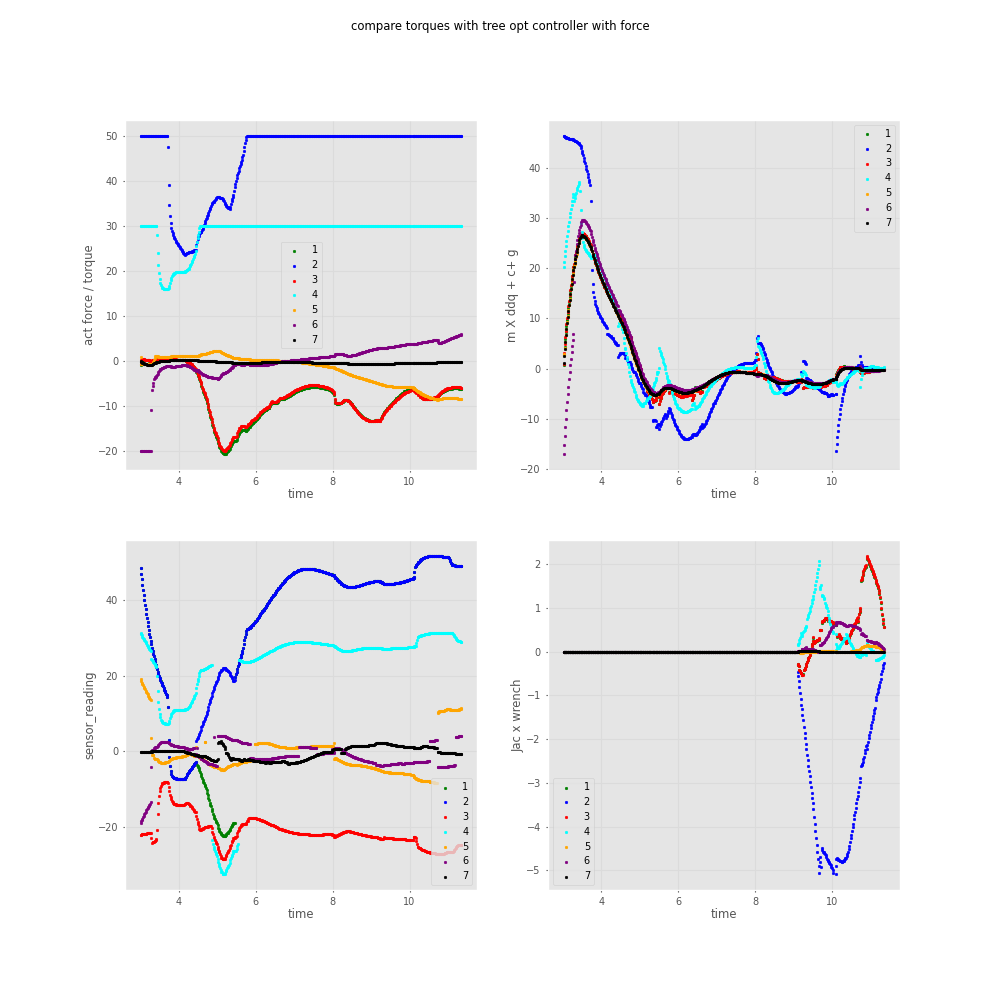
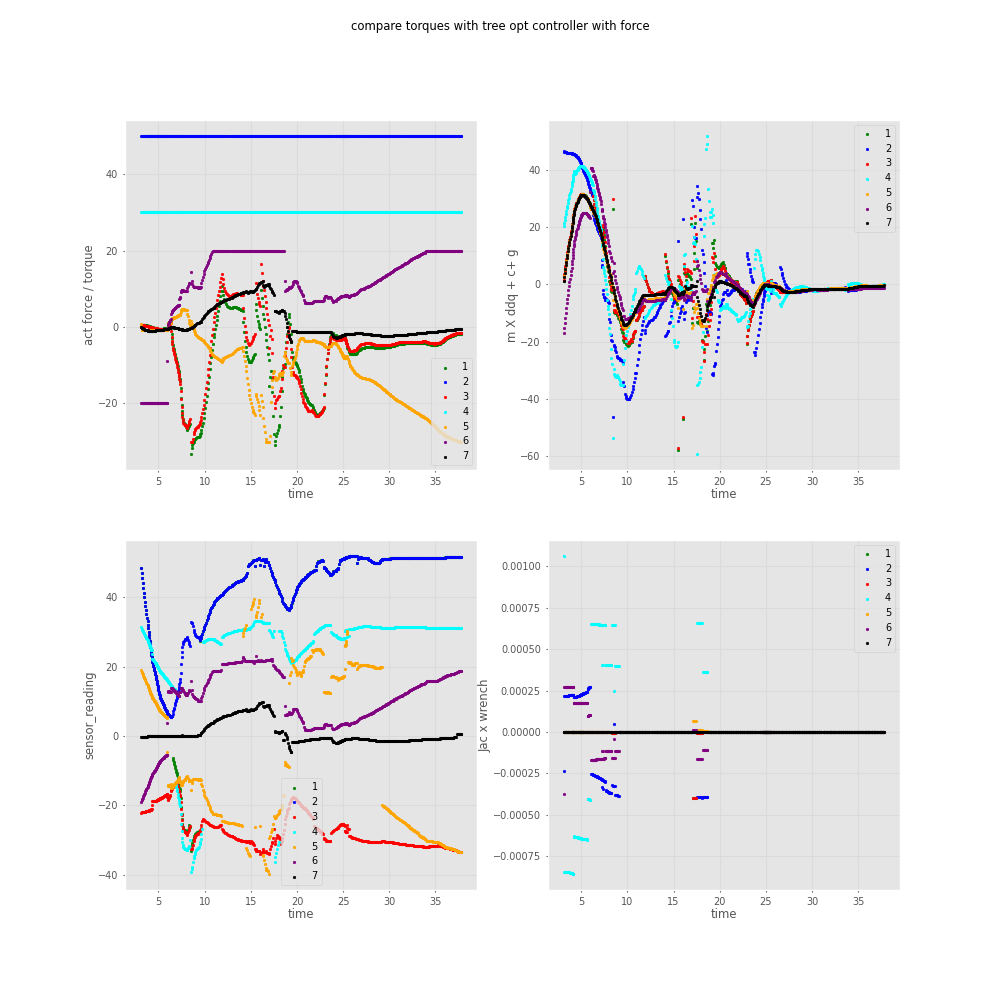
somthing is working

diff --git a/run_controller.py b/run_controller.py
@@ -61,6 +61,33 @@ def generate_save_plt_ee(x, y1, y2, y3, title, axis_names, legend, time1, time2)
     fig.suptitle(title)
     plt.savefig(f'./plot_results/{title}.png')
 
+def generate_save_plt_opt_ctrl(x, y1, y2, y3, title, axis_names, legend, time1, time2):
+    fig, axs = plt.subplots(1, 3, figsize=(10, 10))
+    plt.grid(True)
+    legend_2 = ["1", "2", "3", "4", "5", "6", "7"]
+    colors = ["green", "blue", "red", "cyan", "orange", "purple", "black"]
+
+    # Plot each set of data in the corresponding subplot
+    for i in range(y2.shape[1]):
+        axs[0].plot(x, y1[:, i], color=colors[i % len(colors)])
+        axs[1].plot(x, y2[:, i], color=colors[i % len(colors)])
+    # for i in range(y3.shape):
+    print(y3)
+    axs[2].plot(x, y3, color=colors[i % len(colors)])
+
+    # Set x and y labels, titles, and limits
+    axs[0].set_xlabel(axis_names[0])
+    axs[0].set_ylabel("u target")
+    axs[1].set_xlabel(axis_names[0])
+    axs[1].set_ylabel("u calculated")
+    axs[2].set_xlabel(axis_names[0])
+    axs[2].set_ylabel("cost")
+    axs[1].legend(legend)
+    axs[2].legend(legend_2)
+
+    fig.suptitle(title)
+    plt.savefig(f'./plot_results/{title}.png')
+
 
 def get_path(robo_pos, tmax, dt):
     Nmax = int(tmax / dt)
@@ -108,7 +135,9 @@ if __name__ == '__main__':
     ee_pos_ = np.asarray(mpc.ee_pos_)
     joint_vel_opt = np.asarray(mpc.joint_vel_opt)
     joint_pos = np.asarray(mpc.joint_pos)
-
+    target_u = np.asarray(mpc.target_u)
+    calculated_u = np.asarray(mpc.calculated_u)
+    cost = np.asarray(mpc.cost)
     generate_save_plt(time_arr, act, T, joint_tor_sensor, W_joint, 
                       "compare torques with tree opt controller with force", 
                       ["time", "torque"], ["1", "2", "3", "4", "5", "6", "7"], 
@@ -116,5 +145,9 @@ if __name__ == '__main__':
 
     generate_save_plt_ee(time_arr, W, ee_pos_, joint_vel_opt, 
                          "end effector parameters with tree opt controller with force", 
+                         ["time", "torque"], ["x", "y", "z"], 
+                         time_arr[0], time_arr[-1])
+    generate_save_plt_opt_ctrl(time_arr, target_u, calculated_u, cost, 
+                         "optimization parameters with tree opt controller with force", 
                          ["time", "torque"], ["x", "y", "z"], 
                          time_arr[0], time_arr[-1])

diff --git a/mpc_controller.py b/mpc_controller.py
@@ -11,7 +11,7 @@ from uncMPC import uncMPC
 import qpsolvers as qp
 from controller_performance import ControlPerformance
 import mpc_qp
-from IPython.display import display, clear_output
+# from IPython.display import display, clear_output
 import cvxpy as cp
 
 
@@ -51,6 +51,7 @@ class MPC:
         self.act, self.T, self.wrench_jac = [], [], []
         self.v, self.sensor_v, self.joint_vel_opt, self.joint_pos = [], [], [], []
         self.joint_tor_sensor, self.rtb_torque,  self.time, self.wrench, self.ee_pos_ =[],  [], [], [], []
+        self.calculated_u, self.cost, self.target_u = [], [], []
         self.u = 0
 
     def get_next_torque(self, wrench, robot, target, target_vel):
@@ -94,6 +95,9 @@ class MPC:
         print(u[:,0].value)
         print(target_vel)
         print("=====")
+        self.target_u.append(target_vel)
+        self.calculated_u.append(u[:,0].value)
+        self.cost.append(problem.value)
         return u[:,0].value 
 
     def update_wrench_sample(self, wrench):
@@ -179,7 +183,7 @@ class MPC:
         target_pos = q_k  +dq_k *dt
         dq_ext = self.get_next_torque(wrench, robot, target_pos, dq_k)
         
-        dq_k =  dq_ext
+        # dq_k =  dq_ext
         self.target_pos = (q_k+ dq_k*dt)
         curr_end_eff_position = robot.get_ee_position()
         robot.run(self.target_pos)
